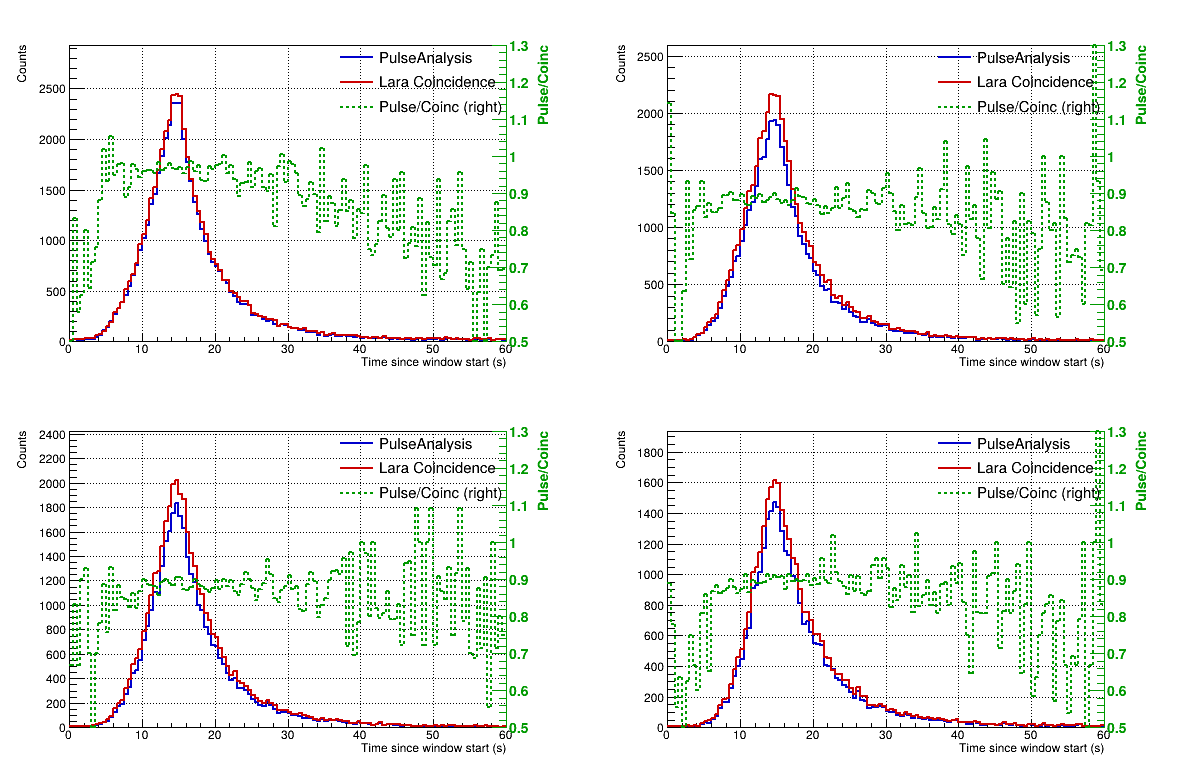
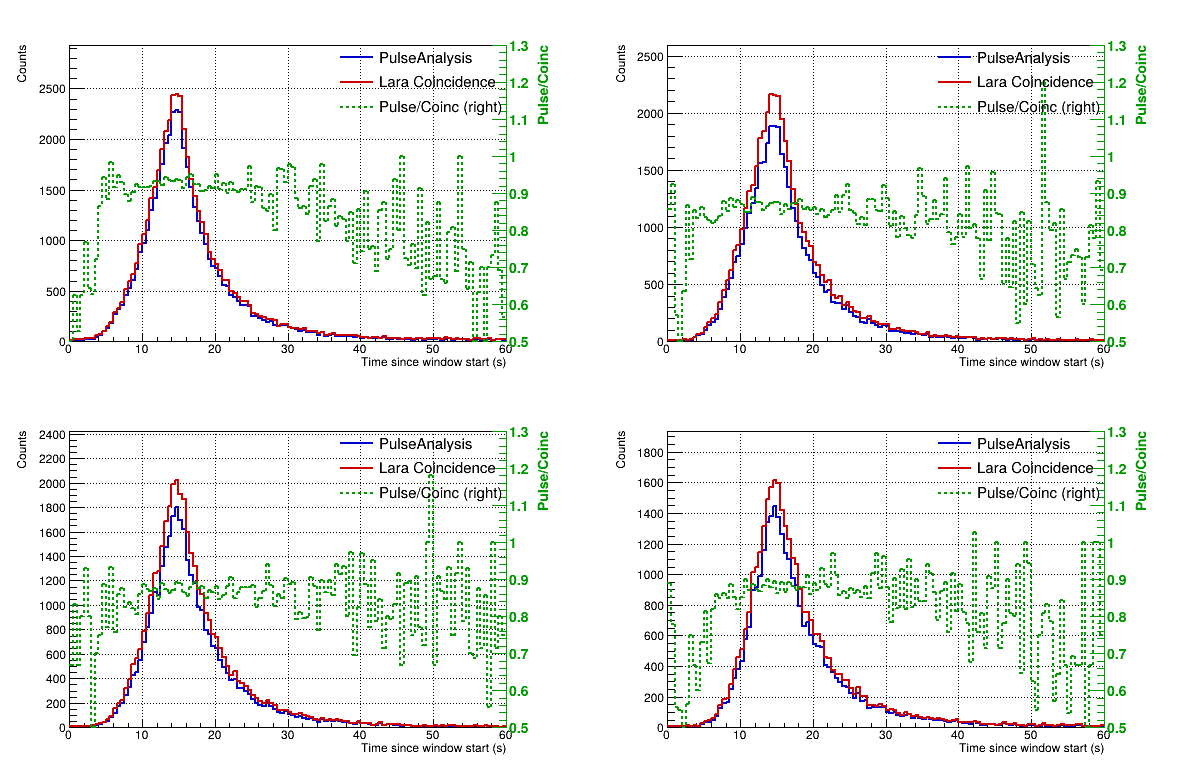
Testing different coincidence detection protocols

diff --git a/src/Pulse_Fitting.cpp b/src/Pulse_Fitting.cpp
@@ -8,6 +8,7 @@
 #include <limits>
 #include <stdexcept>
 #include <cmath>
+#include <deque>
 
 using namespace std;
 
@@ -419,6 +420,54 @@ vector<double> Pulse_Fitting::findCoincidenceSeeds(double startUs, double endUs,
     return seeds;
 }
 
+// struct Hit { double t; int ch; };
+
+// vector<double> Pulse_Fitting::findCoincidenceSeeds(double startUs, double endUs, double binWidthUs, int pre_bins) const {
+//     std::vector<Hit> hits;
+//     hits.reserve(peTimes_us_.size());
+//     for (size_t k = 0; k < peTimes_us_.size(); ++k) {
+//         double t = peTimes_us_[k];
+//         if (t >= startUs && t < endUs) hits.push_back({t, peChans_[k]});
+//     }
+//     std::sort(hits.begin(), hits.end(), [](auto& a, auto& b){ return a.t < b.t; });
+
+//     std::deque<Hit> w;
+//     std::array<int, 256> chCount{};
+//     int distinctCh = 0;
+    
+//     auto add = [&](const Hit& h) {
+//         if (chCount[h.ch]++ == 0) ++ distinctCh;
+//         w.push_back(h);
+//     };
+//     auto pop_front = [&](){
+//         const Hit& h = w.front();
+//         if (--chCount[h.ch] == 0) --distinctCh;
+//         w.pop_front();
+//     };
+
+//     std::vector<double> seeds;
+//     double next_ok_time = -1e99;
+
+//     for (const Hit& h : hits) {
+//         if (h.t < next_ok_time) continue;
+//         add(h);
+//         while (!w.empty() && (w.back().t - w.front().t) > coinc_win_us_) pop_front();
+
+//         const int count = (int)w.size();
+//         const bool cross = (distinctCh >= 2);
+//         if (count >= coinc_seed_pe_min_ && cross) {
+//             const double t_seed = w.front().t;
+//             const double dt_bins = pre_bins + (t_seed - startUs) / binWidthUs;
+//             seeds.push_back(dt_bins);
+
+//             next_ok_time = t_seed + seeding_window_us_;
+//             while (!w.empty() && w.front().t < next_ok_time) pop_front();
+//         }
+//     }
+
+//     return seeds;
+// }
+
 bool Pulse_Fitting::fitPulses(const vector<int>& hist, const vector<double>& xCenters,
                               const vector<vector<double>>& pdfLookup,
                               vector<double>& fittedPEs, vector<double>& fittedDTs,
@@ -464,8 +513,7 @@ bool Pulse_Fitting::fitPulses(const vector<int>& hist, const vector<double>& xCe
                 // If pe_Times_ is in bin indices, convert to absolute µs:
                 double t_us = (peTimes_us_[i] - startUs);
                 double seed_idx = pre_bins + t_us / binWidth_us;
-                double t_diff_us = 0;
-                if (peTimes_us_[i+1] <= endUs) t_diff_us = (peTimes_us_[i+1] - peTimes_us_[i]);
+                double t_diff_us = peTimes_us_[i+1] - peTimes_us_[i];
                 std::cerr << " (" << seed_idx << ", " << t_us << ", " << t_diff_us << ", " << peChans_[i] << ") ";
             }
             std::cerr << "\n";
